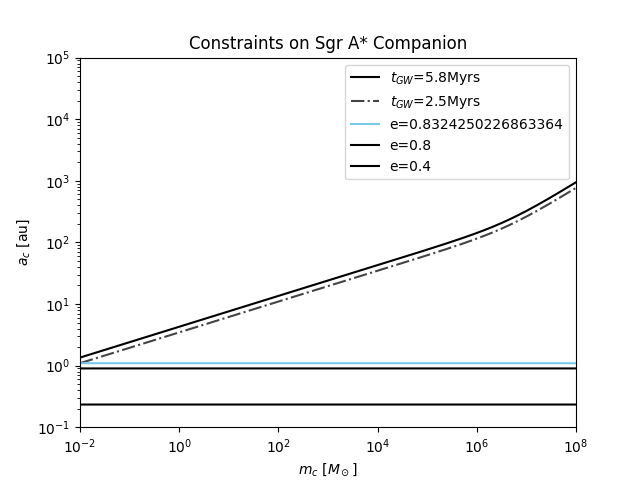
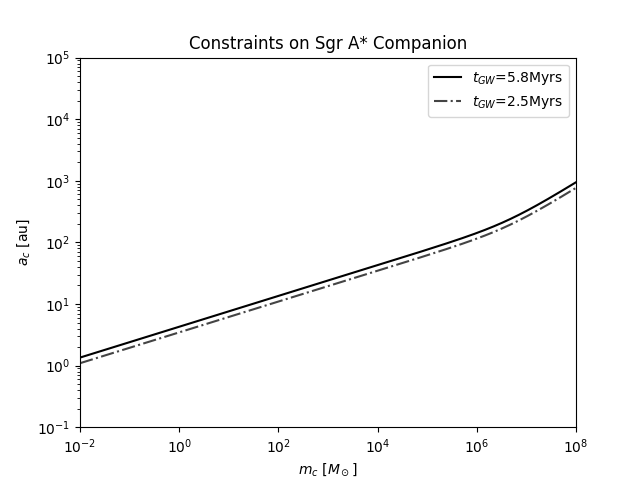
Eccentricity Calculations

diff --git a/constraints.py b/constraints.py
@@ -38,32 +38,6 @@ seps_in_au_gw = gravitational_wave_calculations(plt, masses, 2.5 * Conversion.ME
 	"color": "#444444"
 })
 
-# calculate minimum eccentricity given constraints
-
-minimum = seps_in_au_gw[0]
-separation_ratio = 0.1 / minimum
-maximum_eccentricity = (1 - separation_ratio) / (1 + separation_ratio)
-
-# -- Constraints on Falling Into Sgr A* -- #
-
-falling_in_calculation(plt, masses, maximum_eccentricity,
-{
-	"style": 'solid',
-	"color": "#7bc9ea"
-})
-
-falling_in_calculation(plt, masses, 0.8,
-{
-	"style": 'solid',
-	"color": '#000000'
-})
-
-falling_in_calculation(plt, masses, 0.4,
-{
-	"style": 'solid',
-	"color": '#000000'
-})
-
 # -- Inverse Eccentric Kozai-Loidav Mechanism Constraints -- #
 
 observing_objects = [

diff --git a/eccentricity.py b/eccentricity.py
@@ -5,13 +5,13 @@ import time
 from modules.constants import *
 
 # Define The Range Of Masses
-separations = np.arange(1e-1, 1e8, 1)
+separations = np.arange(1e-1, 1e2, 1)
 
 # Define the plot itself.
 plt.title("Constraints on Sgr A* Companion Eccentricity")
 plt.xlabel("$a_c$ $[au]$")
 plt.ylabel("$e$")
-plt.axis([1e-1, 1e5, 0, 1.1])
+plt.axis([1e-1, 1e2, 0, 1.05])
 
 # Make the axes log scale.
 plt.semilogx()
